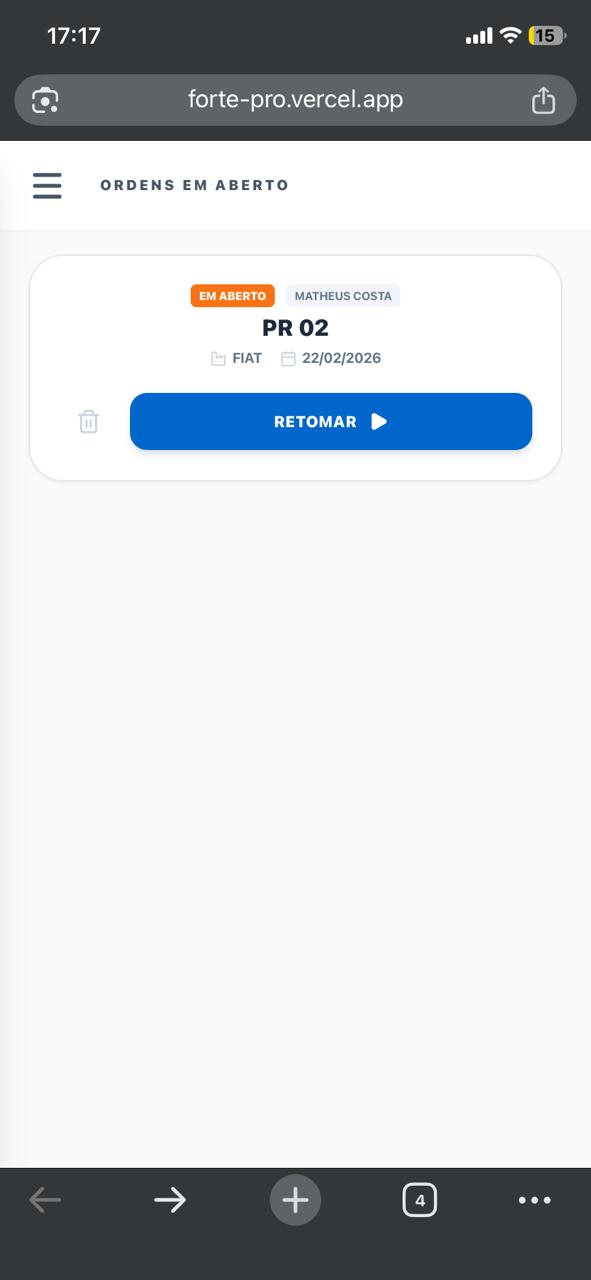
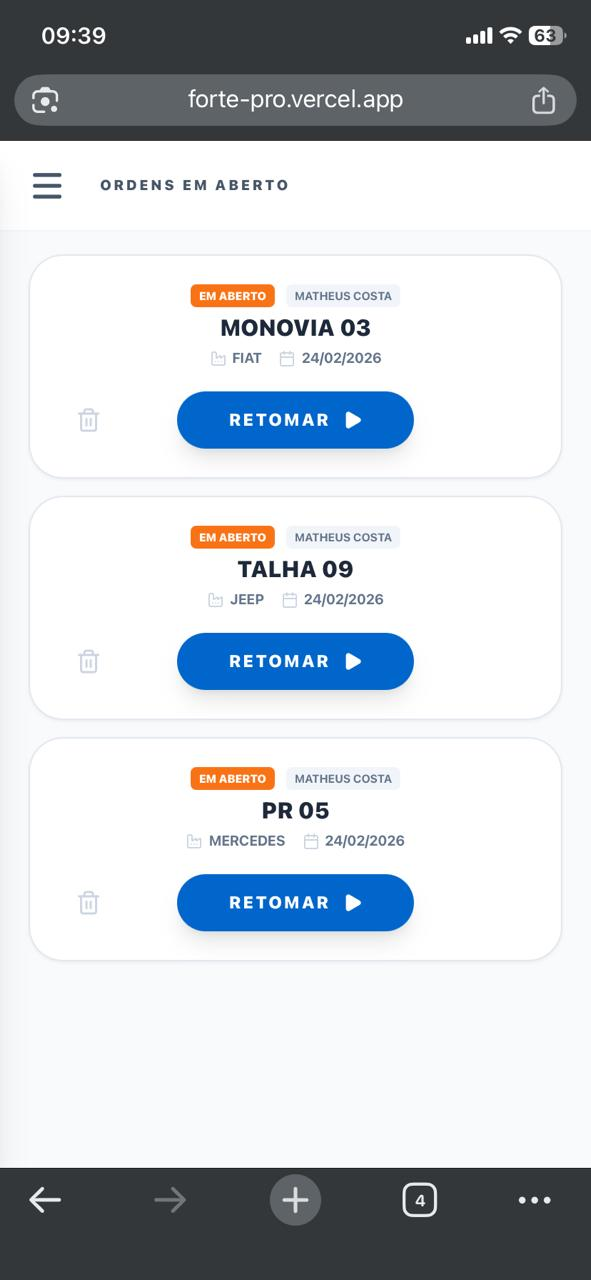
feat: user management refinements (sorting and button width)

diff --git a/components/UserManagement.tsx b/components/UserManagement.tsx
@@ -110,7 +110,9 @@ const UserManagement: React.FC<UserManagementProps> = ({
     }
   };
 
-  const filteredUsers = users.filter(u => u.name.toLowerCase().includes(searchTerm.toLowerCase()) || u.email.toLowerCase().includes(searchTerm.toLowerCase()));
+  const filteredUsers = users
+    .filter(u => u.name.toLowerCase().includes(searchTerm.toLowerCase()) || u.email.toLowerCase().includes(searchTerm.toLowerCase()))
+    .sort((a, b) => a.name.localeCompare(b.name));
 
   const inputClasses = "w-full p-4 bg-slate-50 border border-slate-200 rounded-2xl focus:ring-4 focus:ring-[#0066CC]/10 focus:border-[#0066CC] outline-none transition-all font-bold text-slate-800 text-sm";
   const labelClasses = "text-[10px] font-black text-slate-400 uppercase tracking-widest ml-1 mb-1 block";
@@ -143,11 +145,11 @@ const UserManagement: React.FC<UserManagementProps> = ({
               </div>
             </div>
             <div className="fixed bottom-0 left-0 right-0 p-6 bg-white border-t border-slate-100 z-10">
-              <div className="max-w-3xl mx-auto flex gap-4">
+              <div className="max-w-3xl mx-auto flex justify-center gap-4">
                 {!isNewUser && isAdmin && (
                   <button type="button" onClick={() => setShowConfirmDelete(true)} className="flex-1 h-14 bg-red-50 text-red-600 rounded-[20px] font-black text-xs uppercase flex items-center justify-center gap-2">Excluir</button>
                 )}
-                <button type="submit" className="flex-1 h-14 bg-emerald-600 text-white rounded-[20px] font-black text-xs uppercase tracking-widest shadow-xl flex items-center justify-center gap-2">SALVAR</button>
+                <button type="submit" className={`${!isNewUser && isAdmin ? 'flex-1' : 'w-1/2'} h-14 bg-emerald-600 text-white rounded-[20px] font-black text-xs uppercase tracking-widest shadow-xl flex items-center justify-center gap-2`}>SALVAR</button>
               </div>
             </div>
           </form>
